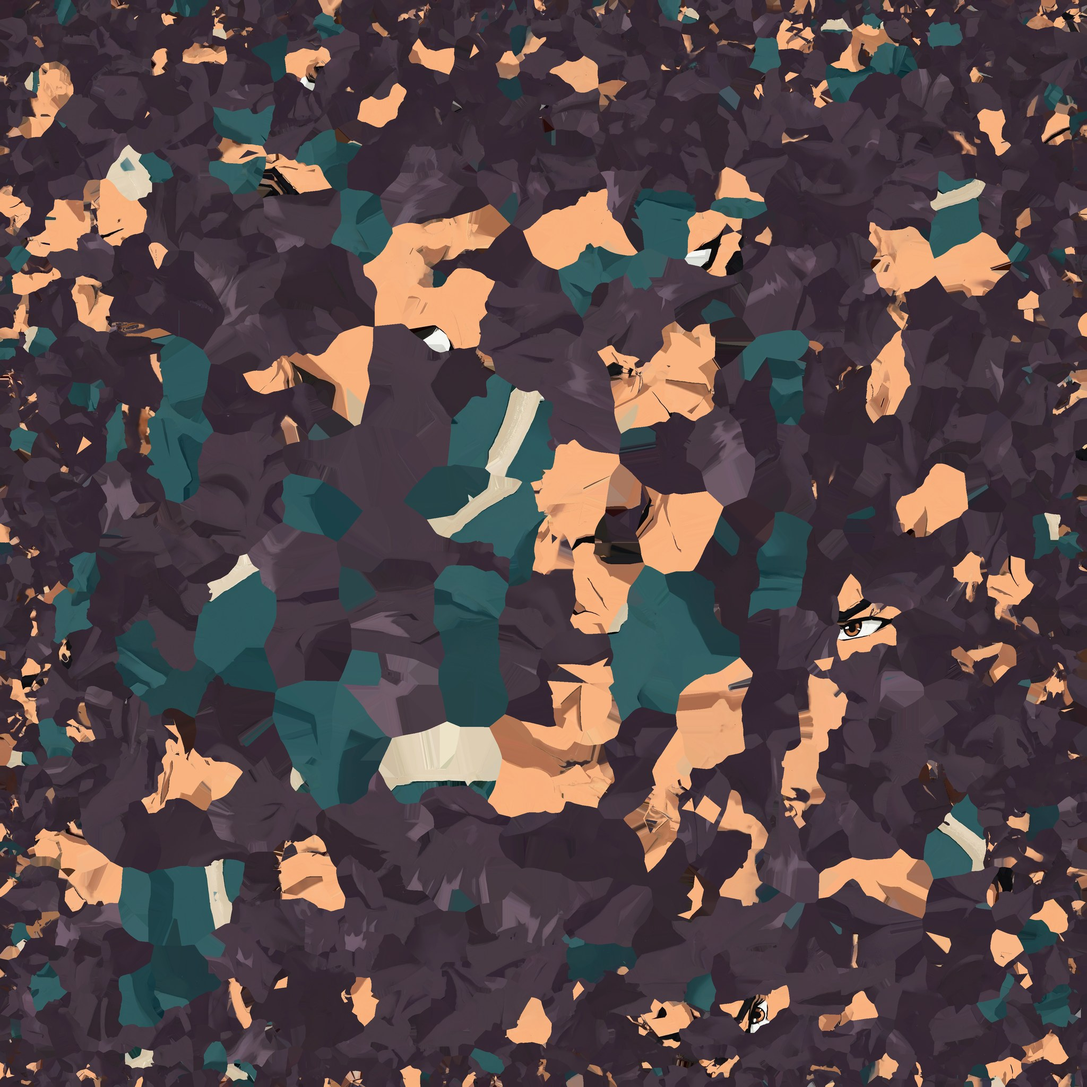
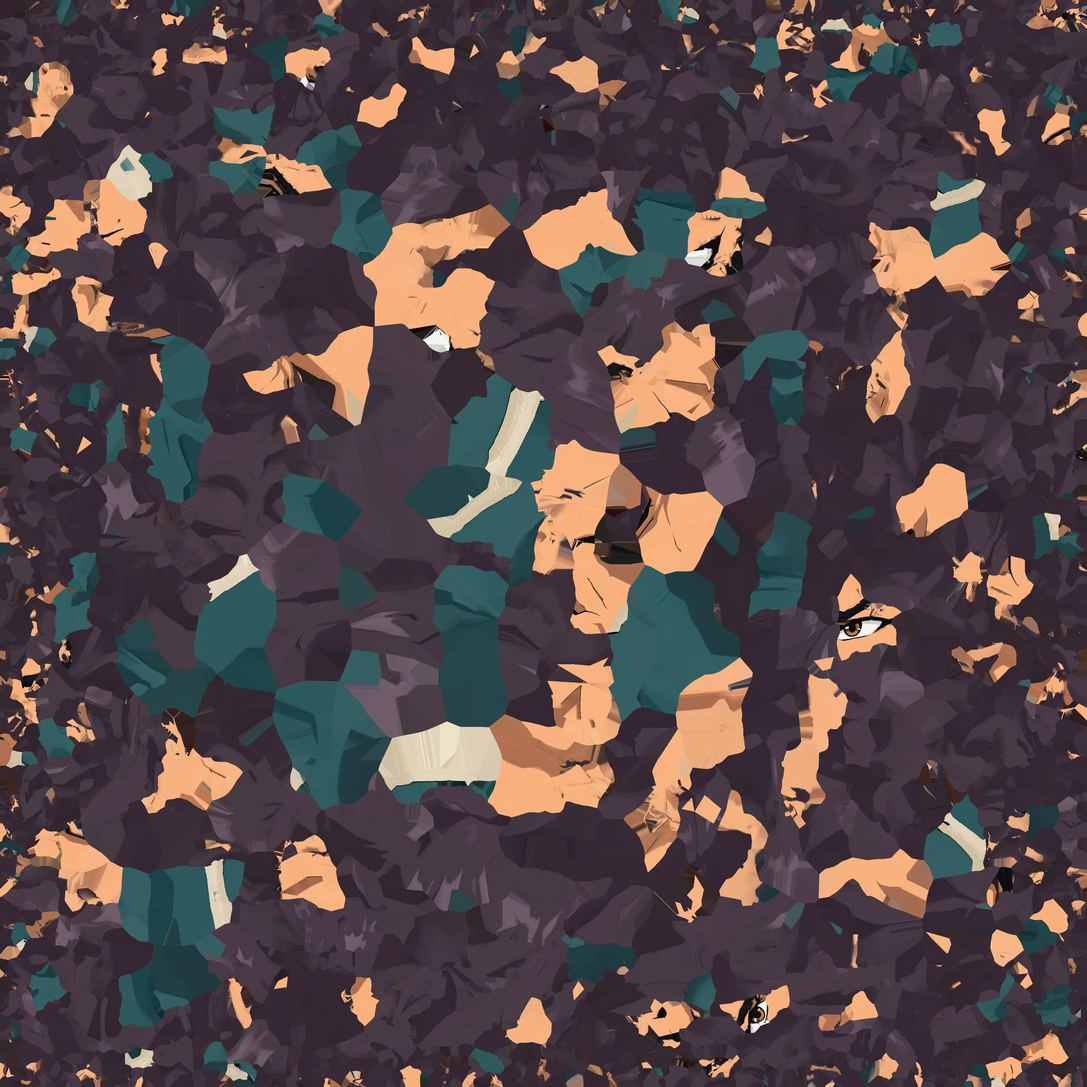
Anteprima di Ren: occhi rifatti puliti, senza Meshy
Idea di Denis: il viso pulito senza i capelli, poi i capelli sopra.
tools/ren_eyes.py (chiamato da ren_head.py dopo la frangia), sul viso
visto di fronte: l'occhio e il sopracciglio a -x (tagliati da una
cucitura della texture) diventano quelli a +x specchiati; i riflessi
come nel foglio, uguali nei due occhi; il ponte del naso e la pelle
sotto gli angoli interni degli occhi lisci; via i pezzetti di ciocche
sospesi davanti all'occhio; un tappo di pelle chiude i due buchi del
viso tra le sopracciglia. Tempo per fotogramma +2% (nel rumore).

Claude-Session: https://claude.ai/code/session_014XUVKvWBodq3kjfPiKyGRo

diff --git a/tools/ren_eyes.py b/tools/ren_eyes.py
@@ -1,0 +1,315 @@
+#!/usr/bin/env python3
+"""Ren's eyes and the skin around them redrawn clean (8/11/2026, Denis: "rifai il viso senza i capelli che coprono e
+aggiungili successivamente, così gli occhi vengono fatti da dio come le dita", then "fai da solo ... senza meshy"):
+called by tools/ren_head.py after tools/ren_fringe.py, on the head it builds.
+
+Meshy painted the eyes under the sheet's hair: the -x eye cut by a seam of its texture (half its white grey), its lashes
+notched, its highlights mirrored; the brows' inner ends and the nose's bridge smudged with the locks' tips; small pieces
+of locks floating in front of the eye (the fringe taken out around them) and a hole between the brows (the back of the
+head's hair seen through it). Here, on the face seen from the front (orthographic, BAND, sampled smoothly):
+  - the pieces of the head not joined to it (ISLAND_MAX triangles at most) out;
+  - the holes (the back of the head seen through the face) and the hair's purple painted on the face: skin, harmonic;
+  - the -x eye and brow: the +x ones mirrored (the axis from the eyes' own match), feathered at the box's edges (BOX);
+  - the highlights: the +x eye's moved (not mirrored) onto the -x eye (the sheet: both at the iris' upper left);
+  - the bridge between the brows down to the nose's line (BRIDGE): plain skin (harmonic, the brows not bleeding in);
+    the dark specks around the eyes too;
+  - written back into the texture: each texel of the face's triangles in the region (not the hair in front of the face,
+    not the back of the head), the band averaged over the texel's footprint, feathered at the region's edge;
+  - a plug where the face has a hole: a small grid of skin PLUG_BACK behind the face around it (its outline pushed
+    back by the caller).
+"""
+import os, sys
+import numpy as np
+from scipy import ndimage, sparse
+from scipy.sparse.linalg import spsolve
+from PIL import Image, ImageDraw
+sys.path.insert(0, os.path.dirname(os.path.abspath(__file__)))
+from ren_fringe import texels
+
+BAND = (-.076, .088, 1.566, 1.622, .00008)   # the band from the front: x0, x1, y0, y1 (m), m per px
+ISLAND_MAX = 30                             # the head's pieces not joined to it with that many triangles at most: out
+FRONT_DZ, BACK_DZ, HOLE_DZ, RIM_DZ = .003, .012, .006, .008   # the face's triangles: within these in front of / behind its smoothed
+                                            # depth (farther in front: hair; behind: the back of the head); a hole: the
+                                            # surface seen that far behind; on the bridge, in front up to RIM_DZ
+BOX = (.0084, .064, 1.5765, 1.6195, .0006)  # each eye's box: |x - axis| from, to; y from, to (m); its feathering
+MIRROR = ((-.07, -.012), (.002, .011), 12)  # the axis' match: the -x eye's columns (m); the axis searched in (m); dy (px)
+IRIS = ((.0168, .0488), (1.5852, 1.602))    # the +x iris searched in: x - axis, y (m)
+BRIDGE = (.0105, 1.5715, .0068, .0013, 1.5785)   # |x - axis| under, y over; the brows' ends kept beyond; the nose's line kept
+                                            # within (its x found) under that y
+UNDER = (.019, 1.584)                       # and under the eyes' inner corners: |x - axis| under, y under (the locks' tips there)
+FEATHER = .0005                             # the region's edge (m)
+PLUG_BACK, PLUG_GRID, PLUG_MIN, PLUG_DZ = .0004, .001, 50, .05   # the plug: behind the face (m); its grid (m); holes from that
+                                            # many px, where the surface seen is that far behind (the back of the head)
+
+
+def islands(Q, I, n_max=ISLAND_MAX):
+    """Which triangles to keep: those of the pieces (joined by shared positions) with more than n_max triangles."""
+    key = np.round(Q / 1e-5).astype(np.int64); _, weld = np.unique(key, axis=0, return_inverse=True); weld = weld.ravel()
+    nt = len(I); A = sparse.csr_matrix((np.ones(3 * nt), (np.repeat(np.arange(nt), 3), weld[I].ravel())), shape=(nt, weld.max() + 1))
+    n, lab = sparse.csgraph.connected_components(A @ A.T, directed=False)
+    return np.bincount(lab, minlength=n)[lab] > n_max
+
+
+def texels_wide(uv, A, TS, ring=1.5):
+    """A triangle's texels as texels() (ren_fringe.py), and those within ring texels outside it (the pieces' edges: a
+    texel half covered by its triangle, its centre out, kept its old colour and the filtering drew it as a line along the
+    seam): (inside: cols/rows, 3D points), (ring: the same, the points extrapolated on its plane)."""
+    lo = np.floor(uv.min(0) - ring).astype(int); hi = np.ceil(uv.max(0) + ring).astype(int)
+    xs, ys = np.meshgrid(np.arange(lo[0], hi[0] + 1), np.arange(lo[1], hi[1] + 1)); px = np.stack([xs.ravel() + .5, ys.ravel() + .5], 1)
+    T = np.array([uv[1] - uv[0], uv[2] - uv[0]]).T; det = np.linalg.det(T)
+    empty = (np.zeros((0, 2), int), np.zeros((0, 3)))
+    if abs(det) < 1e-9: return empty, empty
+    b = np.linalg.solve(T, (px - uv[0]).T).T; w = np.c_[1 - b.sum(1), b]
+    edge = np.linalg.norm(uv[[1, 2, 0]] - uv[[2, 0, 1]], axis=1); h = abs(det) / np.maximum(edge, 1e-9)   # (each corner's altitude)
+    ins = (w >= -1e-3).all(1); near = ((w * h) >= -ring).all(1) & ~ins
+    out = []
+    for m in (ins, near):
+        q = np.floor(px[m]).astype(int); g = (q >= 0).all(1) & (q < TS).all(1); out.append((q[g], (w[m] @ A)[g]))
+    return out[0], out[1]
+
+
+def render_uv(P, UV, I, x0, x1, y0, y1, px):
+    """Orthographic front view of the triangles I (looking down -z): per pixel its uv (barycentric), depth (-inf where
+    empty) and triangle (index into I, -1 where empty)."""
+    W = int(round((x1 - x0) / px)); H = int(round((y1 - y0) / px))
+    uvb = np.zeros((H, W, 2)); zb = np.full((H, W), -np.inf); tb = np.full((H, W), -1, np.int64)
+    A = P[I]; X = (A[:, :, 0] - x0) / px; Y = (y1 - A[:, :, 1]) / px
+    for k in range(len(I)):
+        xs, ys = X[k], Y[k]; lx, hx = int(np.floor(xs.min())), int(np.ceil(xs.max())); ly, hy = int(np.floor(ys.min())), int(np.ceil(ys.max()))
+        if hx < 0 or hy < 0 or lx >= W or ly >= H: continue
+        lx, ly, hx, hy = max(lx, 0), max(ly, 0), min(hx, W - 1), min(hy, H - 1)
+        gx, gy = np.meshgrid(np.arange(lx, hx + 1) + .5, np.arange(ly, hy + 1) + .5)
+        d = (ys[1] - ys[2]) * (xs[0] - xs[2]) + (xs[2] - xs[1]) * (ys[0] - ys[2])
+        if abs(d) < 1e-12: continue
+        w0 = ((ys[1] - ys[2]) * (gx - xs[2]) + (xs[2] - xs[1]) * (gy - ys[2])) / d
+        w1 = ((ys[2] - ys[0]) * (gx - xs[2]) + (xs[0] - xs[2]) * (gy - ys[2])) / d
+        w2 = 1 - w0 - w1; m = (w0 >= -1e-6) & (w1 >= -1e-6) & (w2 >= -1e-6)
+        if not m.any(): continue
+        z = w0 * A[k, 0, 2] + w1 * A[k, 1, 2] + w2 * A[k, 2, 2]
+        iy, ix, zz = gy[m].astype(int), gx[m].astype(int), z[m]; near = zz > zb[iy, ix]
+        if not near.any(): continue
+        iy, ix, zz = iy[near], ix[near], zz[near]; ww = np.stack([w0[m][near], w1[m][near], w2[m][near]], 1)
+        zb[iy, ix] = zz; uvb[iy, ix] = ww @ UV[I[k]]; tb[iy, ix] = k
+    return uvb, zb, tb
+
+
+def padded(tex, UV, I):
+    """The texture with the texels outside the triangles' pieces taking their nearest piece's colour (sampled smoothly
+    near a seam, a piece's edge would pull in the packing's colours)."""
+    TS = tex.shape[0]; m = Image.new('L', (TS, TS), 0); dr = ImageDraw.Draw(m)
+    for tri in UV[I] * TS: dr.polygon([tuple(v) for v in tri], fill=255)
+    inside = ndimage.binary_dilation(np.asarray(m) > 0, iterations=1)
+    gy, gx = ndimage.distance_transform_edt(~inside, return_distances=False, return_indices=True)
+    return tex[gy, gx]
+
+
+def sample(tex, uv):
+    """The texture at uv (h x w x 2), cubic spline."""
+    TS = tex.shape[0]; r = uv[..., 1] * TS - .5; c = uv[..., 0] * TS - .5
+    return np.stack([ndimage.map_coordinates(tex[..., m].astype(float), [r, c], order=3, mode='nearest') for m in range(3)], -1).clip(0, 255)
+
+
+def harmonic(f, unk):
+    """f with its unknown pixels (unk) the smoothest field matching the known ones at their border (Laplace)."""
+    h, w = unk.shape; n = int(unk.sum())
+    if n == 0: return f
+    idx = -np.ones((h, w), int); idx[unk] = np.arange(n); ys, xs = np.nonzero(unk)
+    rows, cols = [], []; b = np.zeros((n, f.shape[2])); deg = np.zeros(n)
+    for dy, dx in ((0, 1), (0, -1), (1, 0), (-1, 0)):
+        y2, x2 = ys + dy, xs + dx; ins = (y2 >= 0) & (y2 < h) & (x2 >= 0) & (x2 < w); k = np.nonzero(ins)[0]; deg[k] += 1
+        nb = idx[y2[k], x2[k]]; u = nb >= 0; rows.append(k[u]); cols.append(nb[u]); kk = k[~u]; b[kk] += f[y2[kk], x2[kk]]
+    rows, cols = np.concatenate(rows), np.concatenate(cols)
+    A = sparse.csc_matrix((np.r_[-np.ones(len(rows)), deg], (np.r_[rows, np.arange(n)], np.r_[cols, np.arange(n)])), shape=(n, n))
+    out = f.copy(); sol = spsolve(A, b); out[ys, xs] = sol.reshape(n, -1); return out
+
+
+def fill(f, unk, k=4):
+    """harmonic() on a k times coarser grid, then exactly within 3k px of the known pixels (fast on big regions)."""
+    h, w = unk.shape; H2, W2 = -(-h // k), -(-w // k)
+    pad = lambda a: np.pad(a, ((0, H2 * k - h), (0, W2 * k - w)) + ((0, 0),) * (a.ndim - 2), mode='edge')
+    fu, kn = pad(f), ~pad(unk); kc = kn.reshape(H2, k, W2, k).sum((1, 3))
+    fc = (fu * kn[..., None]).reshape(H2, k, W2, k, -1).sum((1, 3)) / np.maximum(kc, 1)[..., None]
+    fc = harmonic(fc, kc == 0)
+    up = np.stack([ndimage.zoom(fc[..., m], k, order=1)[:h, :w] for m in range(f.shape[2])], -1)
+    g = np.where(unk[..., None], up, f)
+    return harmonic(g, unk & (ndimage.distance_transform_edt(unk) <= 3 * k))
+
+
+def classes(img):
+    """lum, the skin (with its light shadows), the hair's purple, the dark lines, the whites."""
+    lum = img.mean(2); r, g, b = img[..., 0], img[..., 1], img[..., 2]; sat = img.max(2) - img.min(2)
+    skin = (r > 150) & (r - b > 60) & (lum > 140)
+    purple = (lum >= 30) & (lum < 130) & (r >= g + 2) & (b >= g) & (r - b < 30)
+    return lum, skin, purple, lum < 80, (img.min(2) > 175) & (sat < 50)
+
+
+def eyes(Q, N, UV, I, tex):
+    """See above. Q, N, UV: the head's vertices, normals, uvs; I: its triangles; tex: its texture (h x w x 3 float,
+    painted in place). Returns (the triangles kept, the plug: {pos, nor, uv, src: the vertex each copies its skin from,
+    tri: its triangles over its own vertices} or None)."""
+    P = Q.astype(float); UV = UV.astype(float); I = np.asarray(I).astype(np.int64)
+    keep = islands(P, I); I = I[keep]
+    print('eyes: %d triangles of pieces not joined to the head out' % int((~keep).sum()))
+    x0, x1, y0, y1, R = BAND; TS = tex.shape[0]
+    uvb, zb, tb = render_uv(P, UV, I, x0, x1, y0, y1, R); H, W = zb.shape
+    X = x0 + (np.arange(W) + .5) * R; Y = y1 - (np.arange(H) + .5) * R; XX, YY = np.meshgrid(X, Y); jj, ii = np.meshgrid(np.arange(W), np.arange(H))
+    ok = np.isfinite(zb); img0 = sample(padded(tex, UV, I), uvb); img0[~ok] = 0; img = img0.copy()
+    lum, skin, purple, dark, white = classes(img)
+    # the face's smoothed depth (from its skin), the holes (nothing, or the back of the head) and the hair in front
+    _, (gy, gx) = ndimage.distance_transform_edt(~(ok & skin), return_indices=True); zs = ndimage.gaussian_filter(zb[gy, gx], .002 / R)
+    hole = ~ok | (zb < zs - HOLE_DZ); front = ok & (zb > zs + FRONT_DZ)
+    img = fill(img, hole | (purple & ~dark & ~front))
+    lum, skin, purple, dark, white = classes(img)
+    # the mirror's axis: the -x eye against the +x one mirrored (dark and white, normalized cross-correlation)
+    (la, lb_), (ma, mb), dmax = MIRROR; rows_e = (Y > 1.578) & (Y < 1.618)
+    L0, L1 = int((la - x0) / R), int((lb_ - x0) / R); feat = np.concatenate([dark[rows_e][:, L0:L1], white[rows_e][:, L0:L1]], 1).astype(float).ravel()
+    best = None
+    for xm in range(int((ma - x0) / R), int((mb - x0) / R) + 1):
+        jr = 2 * xm - np.arange(L0, L1)
+        if jr.min() < 0 or jr.max() >= W: continue
+        for dy in range(-dmax, dmax + 1, 2):
+            rr = np.clip(np.nonzero(rows_e)[0] + dy, 0, H - 1)
+            g2 = np.concatenate([dark[rr][:, jr], white[rr][:, jr]], 1).astype(float).ravel()
+            sc = ((feat - feat.mean()) * (g2 - g2.mean())).mean() / (feat.std() * g2.std() + 1e-9)
+            if best is None or sc > best[0]: best = (sc, xm, dy)
+    sc, xm, dy = best; XMID = x0 + (xm + .5) * R
+    print('eyes: the mirror\'s axis at x %.4f m, the -x eye %.2f mm lower, match %.2f' % (XMID, -dy * R * 1000, sc))
+    # the -x box: the +x mirrored (not where the +x side has hair in front: the temples' locks stay theirs)
+    jr = np.clip(2 * xm - np.arange(W), 0, W - 1); rr = np.clip(np.arange(H) + dy, 0, H - 1)
+    mir = img[rr][:, jr]; mhair = (front | purple)[rr][:, jr]
+    b0, b1, by0, by1, bf = BOX; ax_ = XX - XMID
+    boxL = (ax_ < -b0) & (ax_ > -b1) & (YY > by0) & (YY < by1); boxR = (ax_ > b0) & (ax_ < b1) & (YY > by0) & (YY < by1)
+    al = ndimage.gaussian_filter((boxL & ~ndimage.binary_dilation(mhair, iterations=3)).astype(float), bf / R)[..., None]
+    img = img * (1 - al) + mir * al
+    lum, skin, purple, dark, white = classes(img); r, g, b = img[..., 0], img[..., 1], img[..., 2]
+    # the irises (the +x one; the -x is its mirror) and the highlights: the -x eye's out (harmonic over them and their
+    # soft edge), the +x eye's copied there, moved
+    (ia, ib), (iya, iyb) = IRIS; srch = (ax_ > ia) & (ax_ < ib) & (YY > iya) & (YY < iyb)
+    iris = srch & (r - b > 45) & (lum < 170) & (lum > 40) & ~skin
+    m = ndimage.binary_opening(iris, iterations=3); lab, n = ndimage.label(m)
+    k = np.argmax(ndimage.sum(m, lab, range(1, n + 1))) + 1; ys, xs = np.nonzero(ndimage.binary_fill_holes(lab == k))
+    rad = (xs.max() - xs.min()) / 2; cxR = (xs.min() + xs.max()) / 2; cy = ys.max() - rad; cxL = 2 * xm - cxR; cyL = cy - dy
+    wh = img.min(2) > 195
+    def blobs(cx, cy_):
+        lab2, n2 = ndimage.label(wh & (np.hypot(jj - cx, ii - cy_) < rad * 1.08)); sz = ndimage.sum(wh, lab2, range(1, n2 + 1))
+        return np.isin(lab2, np.nonzero(sz < 2500)[0] + 1)
+    hR, hL = blobs(cxR, cy), blobs(cxL, cyL)
+    hz = ndimage.binary_dilation(hL, iterations=9); a0, a1, c0, c1 = int(cyL - 1.3 * rad), int(cyL + 1.3 * rad), int(cxL - 1.3 * rad), int(cxL + 1.3 * rad)
+    img[a0:a1, c0:c1] = harmonic(img[a0:a1, c0:c1].copy(), hz[a0:a1, c0:c1])
+    sx, sy = int(round(cxR - cxL)), int(round(cy - cyL)); hRd = ndimage.binary_dilation(hR, iterations=2); ys, xs = np.nonzero(hRd)
+    img[ys - sy, xs - sx] = img[ys, xs]
+    print('eyes: irises %.1f mm across, their centres %.1f mm apart; highlights: %d px out of the -x iris, %d copied from the +x one' % (
+        2 * rad * R * 1000, (cxR - cxL) * R * 1000, int(hL.sum()), int(hRd.sum())))
+    lum, skin, purple, dark, white = classes(img)
+    # the bridge and the specks: harmonic skin (the solve sees light skin where the brows and the eyes touch it; they
+    # are put back after); the nose's line (its x: the darkest under the bridge) and the brows' ends kept
+    bw, bya, bkeep, nw, nya = BRIDGE
+    lab, n = ndimage.label(dark & (boxL | boxR)); sz = ndimage.sum(dark, lab, range(1, n + 1)); big = np.isin(lab, np.nonzero(sz > (.001 / R) ** 2 * 3)[0] + 1)
+    nose = (np.abs(ax_) < .004) & (YY > bya - .005) & (YY < bya + .005) & dark
+    xn = XX[nose].mean() if nose.any() else XMID
+    bridge = ((np.abs(ax_) < bw) | ((np.abs(ax_) < UNDER[0]) & (YY < UNDER[1]))) & (YY > bya) & ~((np.abs(XX - xn) < nw) & (YY < nya))
+    irises = (np.hypot(jj - cxR, ii - cy) < rad * 1.1) | (np.hypot(jj - cxL, ii - cyL) < rad * 1.1)
+    sat = img.max(2) - img.min(2); eyein = ((img.min(2) > 150) & (sat < 70)) | irises
+    lab, n = ndimage.label(eyein); eyein = np.isin(lab, np.nonzero(ndimage.sum(eyein, lab, range(1, n + 1)) > (.001 / R) ** 2)[0] + 1)
+    keepf = ndimage.binary_dilation((big & ~(bridge & (np.abs(ax_) < bkeep))) | eyein | (dark & (np.abs(XX - xn) < nw) & (YY < nya)), iterations=1)
+    speck = dark & (boxL | boxR) & ~big & ~irises
+    unk = (bridge | ndimage.binary_dilation(speck, iterations=4)) & ~keepf
+    light = skin & (lum > 172)
+    ring = ndimage.binary_dilation(bridge, iterations=int(.0015 / R)) & ~bridge & ~light & ~keepf
+    unk |= ring
+    SK = np.median(img[light & ndimage.binary_dilation(bridge, iterations=int(.003 / R)) & ~bridge], 0)
+    tmp = img.copy(); tmp[keepf & ndimage.binary_dilation(unk, iterations=3)] = SK
+    out = fill(tmp, unk); out[~unk] = img[~unk]
+    print('eyes: the bridge and %d px of specks as skin (%s), the nose\'s line at x %.4f m kept' % (int(speck.sum()), SK.astype(int), xn))
+    # written back: the region (the boxes and the bridge), feathered
+    alpha = np.clip(ndimage.gaussian_filter((boxL | boxR | bridge).astype(float), FEATHER / R), 0, 1)
+    fin = img0 * (1 - alpha[..., None]) + out * alpha[..., None]
+    C = P[I].mean(1); cj = ((C[:, 0] - x0) / R).astype(int); ci = ((y1 - C[:, 1]) / R).astype(int)
+    inb = (cj >= 0) & (cj < W) & (ci >= 0) & (ci < H); cand = np.nonzero(inb)[0]
+    cand = cand[alpha[ci[cand], cj[cand]] > 0]; dz = C[cand, 2] - zs[ci[cand], cj[cand]]
+    # (on the bridge only the fringe is hair, and the holes' rims bulge out: in front up to RIM_DZ there)
+    cand = cand[((dz < FRONT_DZ) | ((dz < RIM_DZ) & bridge[ci[cand], cj[cand]])) & (dz > -BACK_DZ)]
+    blur = {}; n_tx = 0; src = tex.copy(); jobs = []
+    for k in cand:
+        A = P[I[k]]; e1, e2 = A[1, :2] - A[0, :2], A[2, :2] - A[0, :2]; fa = abs(e1[0] * e2[1] - e1[1] * e2[0]) / 2 / R ** 2
+        u = UV[I[k]] * TS; f1, f2 = u[1] - u[0], u[2] - u[0]; ta = abs(f1[0] * f2[1] - f1[1] * f2[0]) / 2
+        s = round(np.clip(.45 * np.sqrt(fa / max(ta, 1e-9)), .5, 6.) * 2) / 2   # (the texel's footprint in band px)
+        if s not in blur: blur[s] = np.stack([ndimage.gaussian_filter(fin[..., c], s) for c in range(3)], -1)
+        jobs.append((s, texels_wide(u, A, TS)))
+    for part in (1, 0):   # (the rings first: a texel inside a triangle takes that triangle's colour)
+        for s, tx in jobs:
+            q, p3 = tx[part]
+            if not len(q): continue
+            j = (p3[:, 0] - x0) / R - .5; i = (y1 - p3[:, 1]) / R - .5
+            v = (j >= 0) & (j < W - 1) & (i >= 0) & (i < H - 1)
+            iq, jq = np.clip(np.round(i).astype(int), 0, H - 1), np.clip(np.round(j).astype(int), 0, W - 1)
+            v &= p3[:, 2] > zs[iq, jq] - BACK_DZ   # (all its texels: the pieces of the locks sunk through the face take its colours)
+            if not v.any(): continue
+            col = np.stack([ndimage.map_coordinates(blur[s][..., c], [i[v], j[v]], order=1) for c in range(3)], 1)
+            a_ = ndimage.map_coordinates(alpha, [i[v], j[v]], order=1)[:, None]; qq = q[v]
+            tex[qq[:, 1], qq[:, 0]] = src[qq[:, 1], qq[:, 0]] * (1 - a_) + col * a_; n_tx += len(qq) * (part == 0)
+    print('eyes: %d triangles of the face repainted (%d texels)' % (len(cand), n_tx))
+    # the plug: under each hole of the face in the region (the back of the head seen through it)
+    holes = (~ok | (zb < zs - PLUG_DZ)) & (alpha > .5); lab, n = ndimage.label(holes); sz = ndimage.sum(holes, lab, range(1, n + 1))
+    holes = np.isin(lab, np.nonzero(sz >= PLUG_MIN)[0] + 1)
+    for k in np.nonzero(sz >= PLUG_MIN)[0]:
+        ys, xs = np.nonzero(lab == k + 1)
+        dd = (zs - np.where(np.isfinite(zb), zb, -1.))[ys, xs]
+        print('eyes: a hole of %.1f mm2 at x %.4f..%.4f, y %.4f..%.4f m, seen behind by %.0f mm (median)' % (len(ys) * R * R * 1e6, X[xs.min()], X[xs.max()], Y[ys.max()], Y[ys.min()], 1000 * np.median(dd)))
+    if not holes.any(): return I, None
+    face = ok & ~hole & ~front; zf = harmonic(np.where(face, zb, 0)[..., None], ~face & ndimage.binary_dilation(holes, iterations=int(.005 / R)))[..., 0]
+    area = ndimage.binary_dilation(holes, iterations=int(.002 / R)); st = max(1, int(round(PLUG_GRID / R)))
+    gi = np.arange(0, H, st); gj = np.arange(0, W, st); GI, GJ = np.meshgrid(gi, gj, indexing='ij'); ins = area[GI, GJ]
+    vid = -np.ones(GI.shape, int); tris = []; nv = 0
+    for a_ in range(GI.shape[0] - 1):
+        for b_ in range(GI.shape[1] - 1):
+            cell = [(a_, b_), (a_ + 1, b_), (a_ + 1, b_ + 1), (a_, b_ + 1)]
+            if not all(ins[c] for c in cell): continue
+            for c in cell:
+                if vid[c] < 0: vid[c] = nv; nv += 1
+            A_, B_, C_, D_ = [vid[c] for c in cell]; tris += [(A_, B_, C_), (A_, C_, D_)]   # (facing +z)
+    if not tris: return I, None
+    pos = np.zeros((nv, 3)); nor = np.zeros((nv, 3)); gzy, gzx = np.gradient(ndimage.gaussian_filter(zf, 4), R)
+    for (p, q_), kk in np.ndenumerate(vid):
+        if kk < 0: continue
+        i_, j_ = GI[p, q_], GJ[p, q_]; pos[kk] = (X[j_], Y[i_], zf[i_, j_] - PLUG_BACK)
+        nn = np.array([-gzx[i_, j_], gzy[i_, j_], 1.]); nor[kk] = nn / np.linalg.norm(nn)
+    # its colour: the skin repainted at the hole's middle (the uv of the biggest face triangle of the bridge there)
+    hy, hx = [int(v) for v in ndimage.center_of_mass(holes)]; near = (np.hypot(jj - hx, ii - hy) < .004 / R) & face & (out.mean(2) > 150) & bridge
+    tk = np.unique(tb[near]); tk = tk[tk >= 0]
+    uarea = lambda t: abs(np.cross(np.r_[UV[I[t]][1] - UV[I[t]][0], 0], np.r_[UV[I[t]][2] - UV[I[t]][0], 0])[2])
+    tbest = max(tk, key=uarea) if len(tk) else int(tb[hy, hx]); uv0 = UV[I[tbest]].mean(0)
+    from scipy.spatial import cKDTree
+    _, srcv = cKDTree(P).query(pos)
+    print('eyes: a plug of %d triangles under %d px of holes in the face' % (len(tris), int(holes.sum())))
+    return I, {'pos': pos, 'nor': nor, 'uv': np.tile(uv0, (nv, 1)), 'src': srcv, 'tri': np.array(tris, np.int64)}
+
+
+if __name__ == '__main__':
+    # a try on a built head (OUT_DIR of tools/ren_head.py): python3 tools/ren_eyes.py IN_DIR OUT_DIR (the texture and the
+    # geometry rewritten there)
+    import json, shutil
+    src_dir, out_dir = sys.argv[1], sys.argv[2]
+    m = json.load(open(os.path.join(src_dir, 'ren_head.json'))); B = open(os.path.join(src_dir, 'ren_head.bin'), 'rb').read()
+    get = lambda k, dt, w: np.frombuffer(B, dt, m[k][1], m[k][0]).reshape(-1, w).copy() if w > 1 else np.frombuffer(B, dt, m[k][1], m[k][0]).copy()
+    it = np.uint32 if m['verts'] > 65535 else np.uint16
+    Qh, Nh, UVh = get('pos', np.float32, 3), get('nor', np.float32, 3), get('uv', np.float32, 2)
+    Ih = get('idx', it, 3); jnt, wgt, lb = get('jnt', np.uint8, 4), get('wgt', np.float32, 4), get('lb', np.float32, 1)
+    t = np.asarray(Image.open(os.path.join(src_dir, 'ren_head.jpg')).convert('RGB')).astype(np.float64)
+    Ik, plug = eyes(Qh, Nh, UVh, Ih, t)
+    if plug is not None:
+        n0 = len(Qh); Qh = np.r_[Qh, plug['pos']]; Nh = np.r_[Nh, plug['nor']]; UVh = np.r_[UVh, plug['uv']]
+        jnt = np.r_[jnt, jnt[plug['src']]]; wgt = np.r_[wgt, wgt[plug['src']]]; lb = np.r_[lb, np.full(len(plug['pos']), .1)]; Ik = np.r_[Ik, plug['tri'] + n0]
+    os.makedirs(out_dir, exist_ok=True)
+    for f in os.listdir(src_dir):
+        if not f.startswith('ren_head'): shutil.copy(os.path.join(src_dir, f), out_dir)
+    blob = bytearray(); nv = len(Qh)
+    def put(arr):
+        while len(blob) % 4: blob.append(0)
+        o = len(blob); blob.extend(np.ascontiguousarray(arr).tobytes()); return [o, int(arr.size)]
+    head = {'v': 1, 'verts': nv, 'tris': len(Ik), 'scale': m['scale'], 'pos': put(Qh.astype(np.float32)), 'nor': put(Nh.astype(np.float32)), 'uv': put(UVh.astype(np.float32)),
+            'jnt': put(jnt.astype(np.uint8)), 'wgt': put(wgt.astype(np.float32)), 'idx': put(Ik.astype(np.uint32 if nv > 65535 else np.uint16)),
+            'hide': put(np.frombuffer(B, np.uint32, m['hide'][1], m['hide'][0])), 'lb': put(lb.astype(np.float32))}
+    open(os.path.join(out_dir, 'ren_head.bin'), 'wb').write(bytes(blob)); json.dump(head, open(os.path.join(out_dir, 'ren_head.json'), 'w'), separators=(',', ':'))
+    t = padded(t, UVh, Ik)   # (as tools/ren_head.py does before saving)
+    Image.fromarray(t.clip(0, 255).round().astype(np.uint8)).save(os.path.join(out_dir, 'ren_head.jpg'), quality=88, optimize=True)

diff --git a/tools/ren_head.py b/tools/ren_head.py
@@ -57,6 +57,7 @@ TEMPLE_LINE = (.045, .1, 1.555, 1.62, -.03, .075, .1, .004)   # see main(): the 
 CHEEKS = (.03, 1.525, 1.595, .015, 1.583, .07)   # see cheek_marks(): |x| over, y between, z over, the eyes' band (over y, within |x|)
 EARS = (.045, .1, 1.545, 1.615, -.035, .03)   # see cheek_marks(): |x|, y, z ranges (m)
 TEMPLE_SPOT = (-.078, -.052, 1.570, 1.592, -.012, .016)   # (x, y, z ranges, m) a brown spot on one temple: see temple_spot()
+PLUG_LINE = .1                             # the outline of the plug under the face's holes (tools/ren_eyes.py): pushed back (m)
 FRINGE_PAINT = (.0008, 120., (60, 50, 60))   # see fringe_paint(): in front of the face by (m), lighter than (mean rgb), the colour they take
 FRINGE_NEAR, FRINGE_MAX = .01, .05
 FRINGE = (.02, .008, .004, 3, .002)   # the hair over the face: its outline's push back (m), the face's reach around it, the depth slack (m), smoothing rounds, grid (m): see fringe_back()
@@ -467,6 +468,14 @@ def main(bust, pkg, out, texture=None):
     # the face's locks from the sheet (tools/ren_fringe.py): Meshy's fringe over the forehead out, the sheet's locks in
     from ren_fringe import fringe as sheet_fringe
     Ik = sheet_fringe(Q, Nq, UVq, Iq, t, name, out)
+    # the eyes and the skin around them redrawn clean (tools/ren_eyes.py): the -x eye and brow from the +x ones, the
+    # bridge plain skin, the pieces floating off the head out, a plug of skin under the face's holes (its outline back)
+    from ren_eyes import eyes as clean_eyes
+    Ik, plug = clean_eyes(Q, Nq, UVq, Ik, t)
+    if plug is not None:
+        n0 = len(Q); Q = np.r_[Q, plug['pos']]; Nq = np.r_[Nq, plug['nor']]; UVq = np.r_[UVq, plug['uv']]
+        top = np.r_[top, top[plug['src']]]; tw = np.r_[tw, tw[plug['src']]]
+        lb_line = np.r_[lb_line, np.full(len(plug['pos']), PLUG_LINE)]; Ik = np.r_[Ik, plug['tri'] + n0]
     nv = len(Q)
     head = {'v': 1, 'verts': nv, 'tris': len(Ik), 'scale': round(s, 5), 'pos': put(Q.astype(np.float32)), 'nor': put(Nq.astype(np.float32)), 'uv': put(UVq.astype(np.float32)),
             'jnt': put(top.astype(np.uint8)), 'wgt': put(tw.astype(np.float32)), 'idx': put(Ik.astype(np.uint32 if nv > 65535 else np.uint16)), 'hide': put(hide), 'lb': put(lb_line.astype(np.float32))}

diff --git a/docs/HANDOFF.md b/docs/HANDOFF.md
@@ -138,6 +138,7 @@ Cose notate nelle revisioni; non costruirle finché Denis non lo chiede.
   - Viso dipinto tutto dal foglio (versione 32, 8/11 mattina): provato e scartato da Denis ("l'hai peggiorato rifallo come prima"): annullato (commit di revert), si resta sul viso della versione 31.
   - Ritocchi leggeri sulle zone cerchiate da Denis (8/11, "migliora le parti che ho cerchiato, ma leggermente perché è quasi fatto da dio"), tutto il resto identico alla versione 31: (1) i pezzetti delle ciocche del foglio che la maschera degli occhi staccava dalla ciocca (una punta scura sospesa all'angolo interno dell'occhio a -x) sono tolti (`ren_fringe.py`: pezzi con la cima sotto le sopracciglia); (2) le punte delle ciocche di Meshy appoggiate sul ponte del naso (due punte una sull'altra: una macchia scura tra gli occhi) prendono il colore della pelle, anche ai bordi dei loro pezzi di texture (`BRIDGE`); (3) le punte di ciocca dipinte piatte sul viso intorno agli occhi (spine viola fra sopracciglia e ciglia, agli angoli esterni, sotto gli angoli interni) diventano pelle, il nero di ciglia e sopracciglia resta (`SPIKES`); (4) alle tempie, i triangoli stirati delle ciocche affondate (pochi texel su 3-16 mm² ciascuno: striscette marroni e bianche all'angolo esterno dell'occhio) diventano pelle (`TEMPLE_STRETCH`), e il contorno lì va 10 cm più indietro (`TEMPLE_LINE`: dove la superficie si piega sotto le basette usciva come schegge nere attraverso la pelle; contro lo sfondo il contorno della testa resta); (5) sui lati delle guance i segni di Meshy (graffi chiari, puntini viola e neri) prendono il colore della pelle pulita vicina (`cheek_marks`, `CHEEKS`).
   - Ultimi ritocchi (8/11, Denis dopo la versione 34: "ci sei quasi"): la pulizia dei segni di Meshy sulle guance arriva anche alle orecchie e alla pelle sotto le basette (`EARS`) e prende anche le pieghe rosa chiaro (le righine sulle orecchie). Provati e scartati: il naso e la bocca dipinti dal foglio in un riquadro (di fronte il naso con l'ombra a cuneo somigliava di più, ma di tre quarti l'ombra diventava una macchia marrone sul fianco del naso; la bocca veniva più chiara e con un taglio a metà; la pelle del foglio, piatta, faceva vedere il riquadro), l'ombra nera sotto il mento del foglio proiettata sul collo (di fronte cade sotto la mascella, dove non si vede: servirebbe dipingerla lungo il collo, un lavoro più grande, da proporre a Denis).
+  - Occhi rifatti puliti, senza Meshy (8/11, idea di Denis "rifai il viso senza i capelli che coprono e aggiungili successivamente, così gli occhi vengono fatti da dio come le dita", poi "fai da solo come hai fatto per il resto senza meshy"; versione 36): `tools/ren_eyes.py`, chiamato da `ren_head.py` dopo la frangia. Lavora sul viso visto di fronte (una fascia dagli occhi alle sopracciglia, 0,08 mm per pixel, campionata liscia dalla texture): (1) toglie i pezzetti della testa staccati dal resto (14 triangoli: punte di ciocche rimaste sospese davanti all'occhio a -x quando è stata tolta la frangia di Meshy, si vedevano di tre quarti come schegge scure sull'iride); (2) l'occhio e il sopracciglio a -x (tagliati da una cucitura della texture: metà del bianco grigia, ciglia con tacche) diventano quelli a +x specchiati (asse trovato confrontando i due occhi, x 7,2 mm); (3) i riflessi: quelli a +x spostati, non specchiati, anche sull'occhio a -x (nel foglio entrambi in alto a sinistra dell'iride); (4) il ponte del naso tra le sopracciglia fino all'inizio della riga del naso, e sotto gli angoli interni degli occhi, diventa pelle liscia (riempimento armonico, le sopracciglia non ci sbavano dentro), via anche i puntini scuri; (5) tutto riscritto nella texture: ogni texel dei triangoli del viso nella zona (non i capelli davanti, non il retro della testa), media sulla sua impronta, anche i texel a cavallo delle cuciture (prima facevano righine chiare); (6) un tappo di pelle (192 triangoli, 0,4 mm dietro il viso, contorno spinto indietro: `PLUG_LINE`) chiude i due buchi del viso (tra le sopracciglia 34 mm², sopra il sopracciglio a -x 6 mm²) da cui si vedeva l'interno scuro dei capelli dietro. Tempo per fotogramma in software: 58,8 ms contro 57,6 della versione 35 (+2%, dentro il rumore; 6 misure alternate).
   - `tools/paint_head.py` (pittura della testa dalle 3 viste) è provato ma non usato: proiettato, il disegno si sdoppiava sugli occhi; la texture di Meshy è più pulita.
   - Tempo per fotogramma nell'anteprima, in software: 63,0 ms contro 57,7 della versione 16 (+9%, media di 6 misure alternate; la testa ha 14.000 triangoli più il suo contorno). Una testa da 12.000 triangoli avrebbe i capelli più spigolosi dietro: scartata. Il gioco non cambia (look spento).
 - `paint_from_drawing.py` ora riempie anche gli spazi tra i pezzi della texture col colore del pezzo vicino: i vecchi colori lì si vedevano come crepe lungo le cuciture.
@@ -146,7 +147,7 @@ Cose notate nelle revisioni; non costruirle finché Denis non lo chiede.
 - Fasce e stivali (8/11): fasce di braccia e caviglie nel bianco caldo del disegno (230, 210, 202) con le righe del disegno davanti e le pieghe della fasciatura di Meshy sui lati, luce piatta (le bande della luce cartoon erano blocchi grigi; alle caviglie il disegno proiettato faceva macchie grigie e nere); bordini e suole degli stivali nel beige del disegno (`paint_from_drawing.py`, `WRAP_*`, `BOOT_COL`; `ren_look.py` per la luce piatta).
 - Per accendere il look nel gioco (pronto, provato l'8/11 in una copia locale di `game_w.html` col look completo acceso e i file di `viewer_assets` dentro: tutti i 13 file di test verdi; riprovato alle 6 con la testa della versione 29: 13 file più touch e model da telefono verdi, partita di prova senza errori, `index.html` 8,5 MB): (1) in `src/a0_cfg.js` mettere `looks.ren` come in `vwBoot` di `src/v_viewer.js` più `paint:true` (la pittura dal disegno, `ren_painted.jpg`) e `clips` (la guardia `a191` che respira, già nel look); (2) in `mk.sh` aggiungere `--assets=viewer_assets` alle due righe del gioco (index.html passa da 4,6 a circa 8,5 MB); (3) test, poi ripubblicare gioco e app (gh-pages). Già fatto per questo: la testa non si alza da accovacciati (come i riquadri della logica), il lampo del colpo va su tutti i materiali, la pittura e le clip sono opzioni del look (`paint`, `clips`). Nella prova locale (rendering in software) la partita partiva circa 3 s più tardi e il primo "COMBATTI!" arrivava dopo: prima di pubblicare misurare caricamento e FPS su un telefono medio.
 - Difetti minori rimasti con la testa nuova (8/11, cercati di notte da vicino): (1) nei primi fotogrammi del pugno, ruotando la testa, si vedono ancora piccole schegge chiare vicino alla mascella (solo molto da vicino; quelle della "Presa" sono corrette col colletto rigido): è la fascia alta del colletto sul fianco (bordino, x 0,11 m, y 1,515 m; legata 0,72 alla spalla e 0,24 alla testa), che la mascella incontra girando (trovata colorando ogni triangolo col suo numero); provati e scartati: il colletto che segue la testa a metà (si piegava mostrando più bordino), aperto davanti (cambiava la vista di fronte), pesi più sfumati (nessun effetto), il colletto senza peso della testa (le punte dei capelli sulla nuca si stiravano fino al colletto), i colori tra verde e bordino presi per colletto (nessun effetto visibile), la fascia alta del colletto spinta in fuori di 8 mm ai lati (schegge più grandi); (2) a terra i capelli scendono fino a 2 cm sotto il pavimento (circa 3 pixel nel gioco; nell'anteprima il pavimento è l'immagine di sfondo, non si vede); (3) con la pittura "Meshy" dell'anteprima (solo per confronto) sul petto, vicino al colletto, si vede una riga chiara del bordino del colletto vecchio (con "Disegno" no: lì `paint_from_drawing.py` pulisce il petto). La fascia scura di profilo vicino all'occhio è corretta (vedi "Tempie pulite").
-- Per dopo (annotate, non fatte): i fogli del corpo che Denis ha mandato l'8/11 (`docs/ref/personaggi/ren_busto_3viste.png`, `ren_gambe_3viste.png`: destra, fronte, sinistra; `ren_retro.png`: tutto il corpo da dietro; il foglio della testa che ha rimandato è identico a `ren_testa_3viste.png`) per rifare o ridipingere il corpo dai lati e da dietro (fasce con il polsino scuro, stivali, pantaloni, code della fascia arancione), oggi dipinto solo dalla vista di fronte di `ren.png`; il viso rifatto senza capelli (idea di Denis, 8/11: "rifai il viso senza i capelli che coprono e aggiungili successivamente, così gli occhi vengono fatti da dio come le dita"): (1) Meshy image-to-image (nano-banana-pro, 9 crediti) toglie i capelli dal foglio delle 3 viste lasciando il viso identico, da mostrare a Denis; (2) Meshy multi-image-to-3d della testa calva dalle 3 viste (30 crediti, texture 4K); (3) sopra, i capelli della testa di adesso e la frangia dal foglio (`ren_head.py`, `ren_fringe.py`). Prezzi letti l'8/11 su docs.meshy.ai/en/api/pricing; saldo 1.100. Denis per ora ha detto di aspettare: non partire senza il suo ok; l'ombra nera sotto il mento come nel foglio (una V spessa sul collo, sotto la mascella; nel foglio c'è in tutte e tre le viste), da proporre a Denis prima di farla; in guardia la testa alzata di 20° invece di 12° (`headUp` del look: provato in una copia, con 20° si vedono entrambi gli occhi sopra il pugno, a 28° sembra guardare in alto; è una scelta di posa, da decidere con Denis); stesso metodo delle 3 viste per Kael, se Denis fa il suo foglio; se Denis vuole punte dei capelli ancora più lunghe, un'altra prova Meshy (30 crediti; alleggerire il modello non le arrotonda: a 60.000 e a 16.000 triangoli la sagoma è la stessa).
+- Per dopo (annotate, non fatte): i fogli del corpo che Denis ha mandato l'8/11 (`docs/ref/personaggi/ren_busto_3viste.png`, `ren_gambe_3viste.png`: destra, fronte, sinistra; `ren_retro.png`: tutto il corpo da dietro; il foglio della testa che ha rimandato è identico a `ren_testa_3viste.png`) per rifare o ridipingere il corpo dai lati e da dietro (fasce con il polsino scuro, stivali, pantaloni, code della fascia arancione), oggi dipinto solo dalla vista di fronte di `ren.png`; se gli occhi rifatti a mano non bastano, la testa senza capelli fatta da Meshy (immagine del foglio senza capelli, nano-banana-pro, 9 crediti; testa dalle 3 viste, 30 crediti; prezzi e saldo 1.100 letti l'8/11), solo col suo ok; l'ombra nera sotto il mento come nel foglio (una V spessa sul collo, sotto la mascella; nel foglio c'è in tutte e tre le viste), da proporre a Denis prima di farla; in guardia la testa alzata di 20° invece di 12° (`headUp` del look: provato in una copia, con 20° si vedono entrambi gli occhi sopra il pugno, a 28° sembra guardare in alto; è una scelta di posa, da decidere con Denis); stesso metodo delle 3 viste per Kael, se Denis fa il suo foglio; se Denis vuole punte dei capelli ancora più lunghe, un'altra prova Meshy (30 crediti; alleggerire il modello non le arrotonda: a 60.000 e a 16.000 triangoli la sagoma è la stessa).
 
 ## Prossimo passo
-Denis guarda l'anteprima (versione 35: il viso della 31, frangia dal foglio, ritocchi leggeri sulle zone che ha cerchiato, orecchie pulite) con la testa nuova dal suo foglio, le tempie pulite, il colletto rigido, le fasce e gli stivali come il disegno. Se gli piace: accendere il look nel gioco con i 3 passi scritti sopra ("Per accendere il look nel gioco"), test, ripubblicare gioco e app. Poi: Kael di Meshy (modello dal suo disegno + scheletro; le animazioni si riusano), mostrando prima saldo e costo.
+Denis guarda l'anteprima (versione 36: gli occhi rifatti puliti e uguali, il ponte del naso pulito, niente schegge né buchi tra le sopracciglia; il resto come la 35) con la testa nuova dal suo foglio, le tempie pulite, il colletto rigido, le fasce e gli stivali come il disegno. Se gli piace: accendere il look nel gioco con i 3 passi scritti sopra ("Per accendere il look nel gioco"), test, ripubblicare gioco e app. Poi: Kael di Meshy (modello dal suo disegno + scheletro; le animazioni si riusano), mostrando prima saldo e costo.
